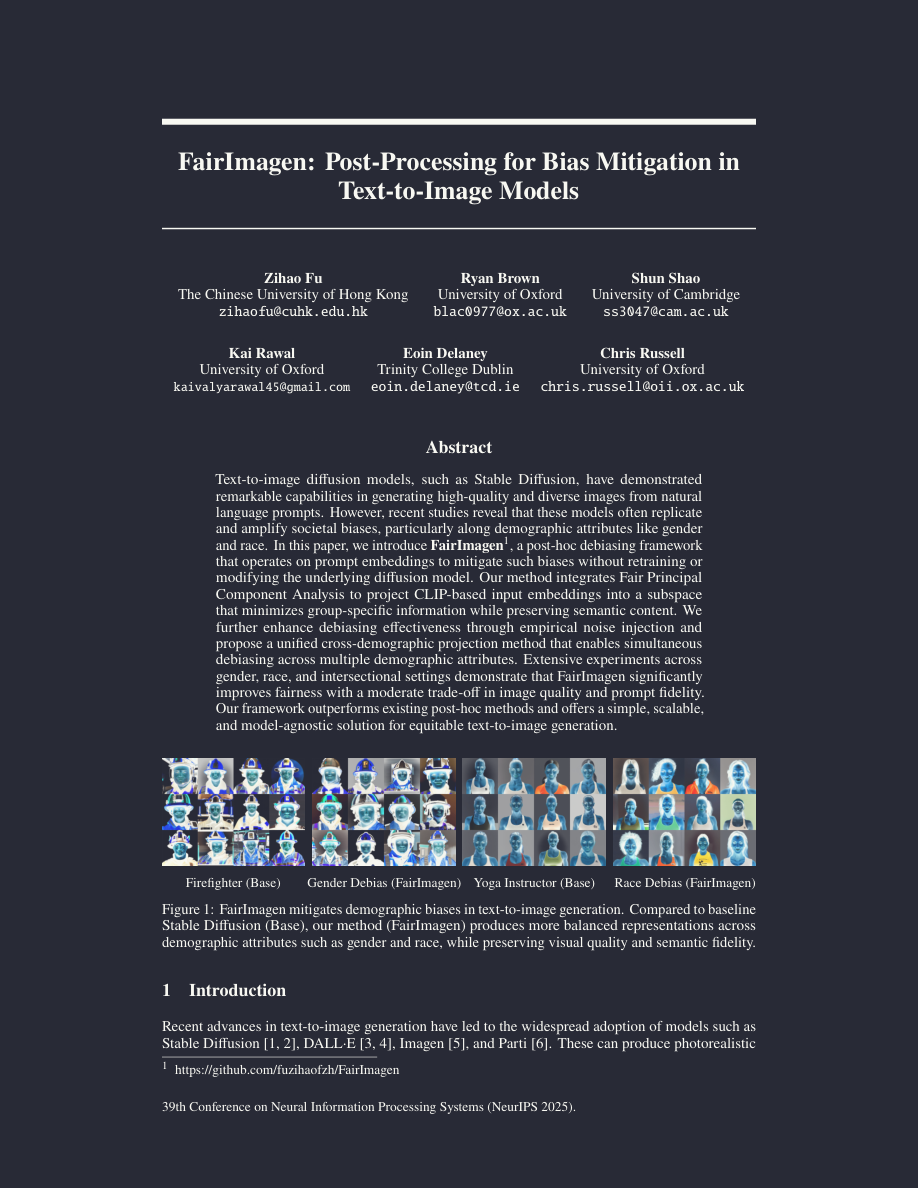
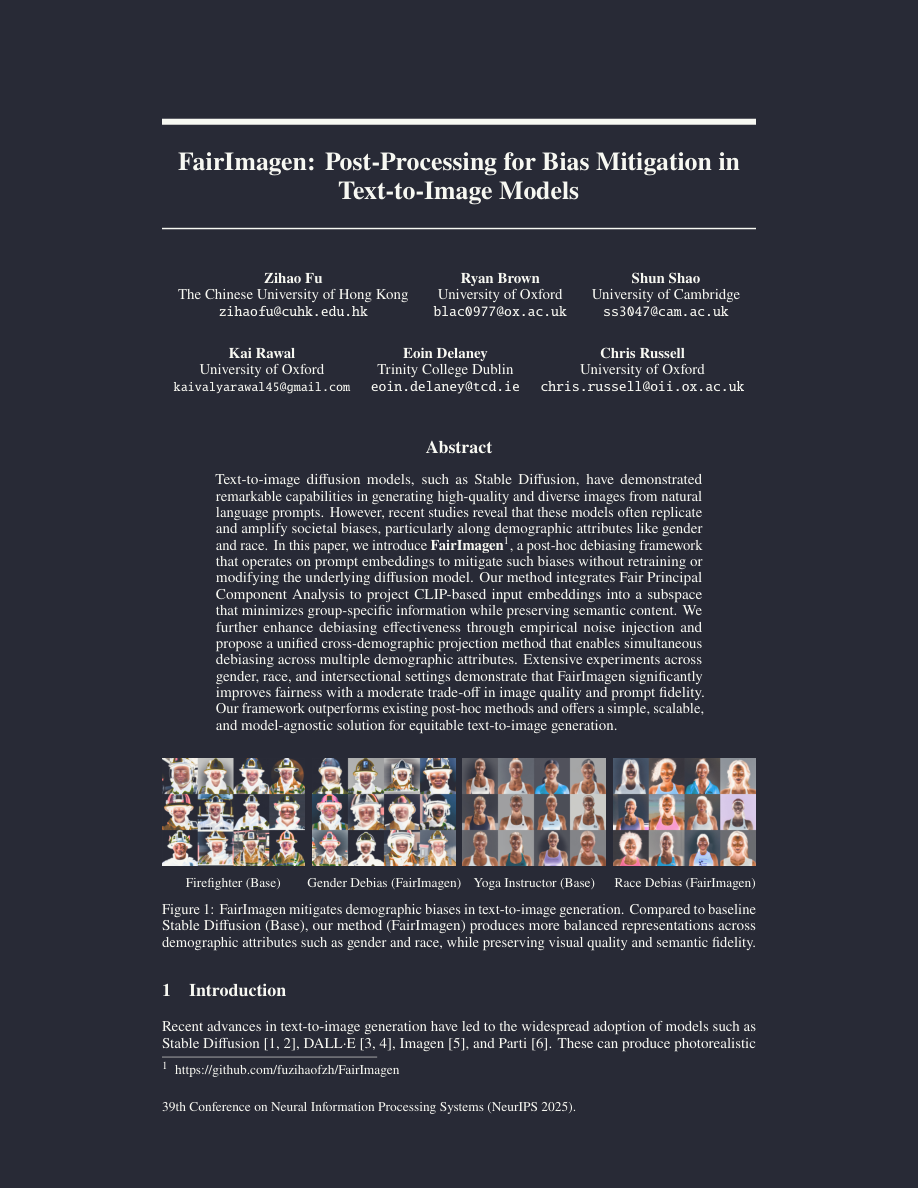
Improve dark mode: preserve photo colors
Use invert + hue-rotate(180°) + linear remap for dark themes.
Photos now keep natural colors instead of being color-inverted.

Changed region(s): [[0.183, 0.6229, 0.8235, 0.7475]]

diff --git a/resources/extension/viewer.js b/resources/extension/viewer.js
@@ -61,16 +61,24 @@
           <feFuncB type="linear" slope="${sB}" intercept="0"/>
         </feComponentTransfer>`
     } else {
-      // Dark mode: linear remap per channel
-      // black(0) -> fg, white(255) -> bg
-      const sR = ((bg[0] - fg[0]) / 255).toFixed(6)
-      const sG = ((bg[1] - fg[1]) / 255).toFixed(6)
-      const sB = ((bg[2] - fg[2]) / 255).toFixed(6)
-      const iR = (fg[0] / 255).toFixed(6)
-      const iG = (fg[1] / 255).toFixed(6)
-      const iB = (fg[2] / 255).toFixed(6)
+      // Dark mode: invert + hue-rotate(180°) + linear remap
+      // Step 1: Invert brightness
+      // Step 2: Hue-rotate 180° to restore original hues (photos stay natural)
+      // Step 3: Linear remap — input 0 (was white bg) -> bg, input 1 (was black text) -> fg
+      const sR = ((fg[0] - bg[0]) / 255).toFixed(6)
+      const sG = ((fg[1] - bg[1]) / 255).toFixed(6)
+      const sB = ((fg[2] - bg[2]) / 255).toFixed(6)
+      const iR = (bg[0] / 255).toFixed(6)
+      const iG = (bg[1] / 255).toFixed(6)
+      const iB = (bg[2] / 255).toFixed(6)
       filterContent = `
-        <feComponentTransfer>
+        <feComponentTransfer result="inverted">
+          <feFuncR type="linear" slope="-1" intercept="1"/>
+          <feFuncG type="linear" slope="-1" intercept="1"/>
+          <feFuncB type="linear" slope="-1" intercept="1"/>
+        </feComponentTransfer>
+        <feColorMatrix type="hueRotate" values="180" in="inverted" result="hueFixed"/>
+        <feComponentTransfer in="hueFixed">
           <feFuncR type="linear" slope="${sR}" intercept="${iR}"/>
           <feFuncG type="linear" slope="${sG}" intercept="${iG}"/>
           <feFuncB type="linear" slope="${sB}" intercept="${iB}"/>
